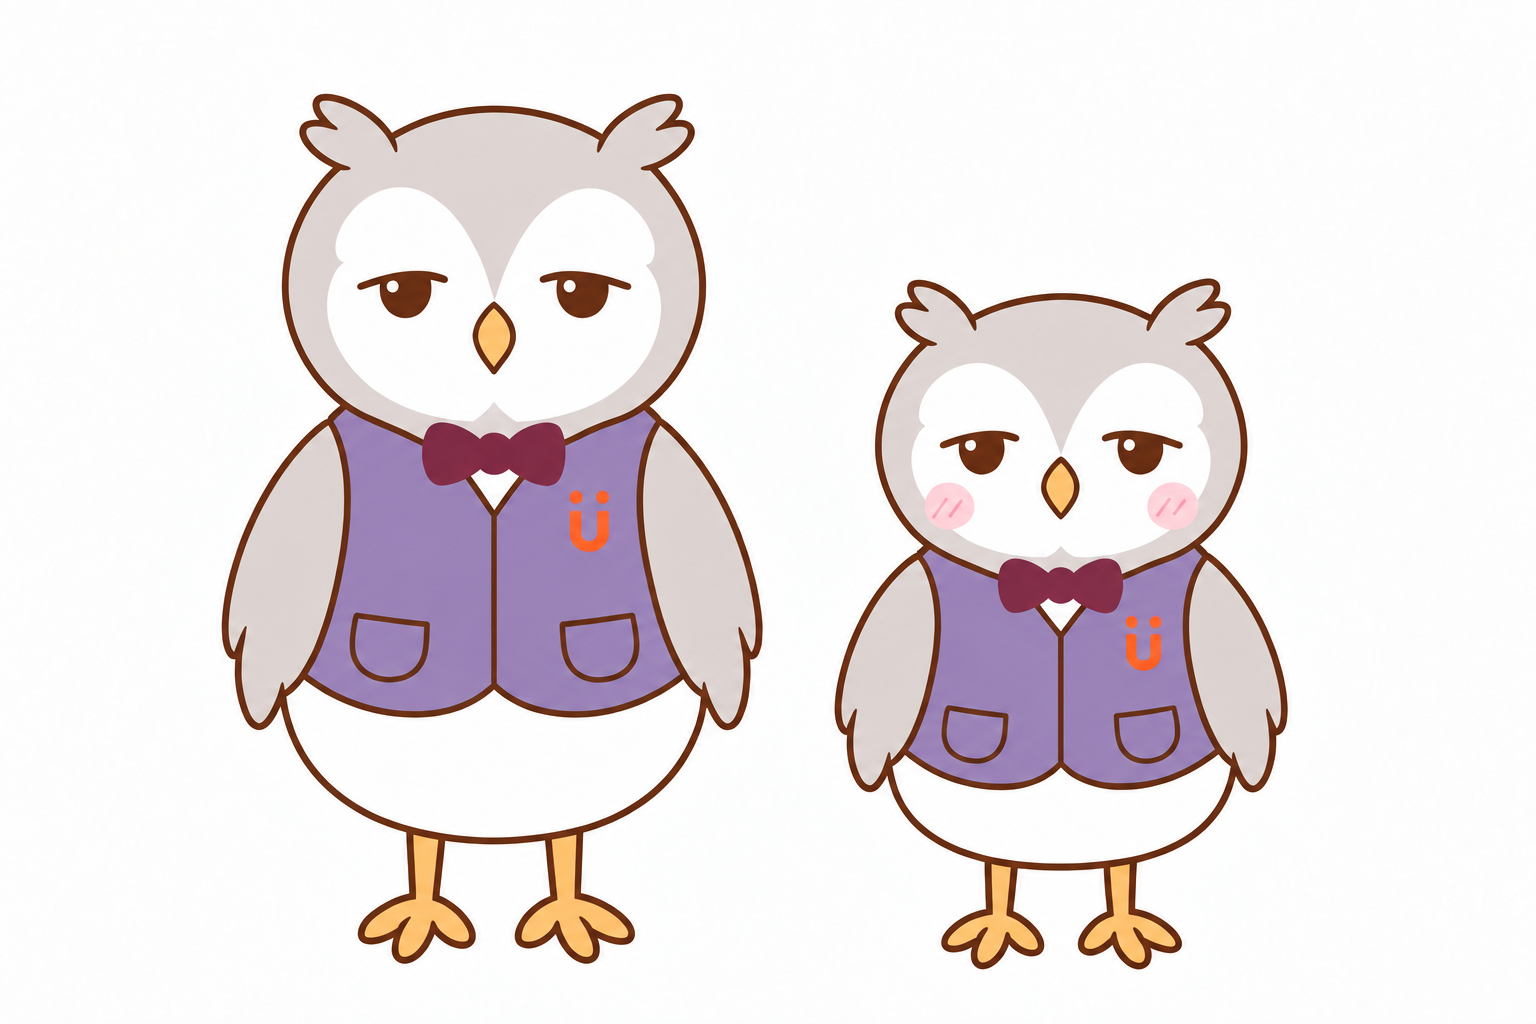
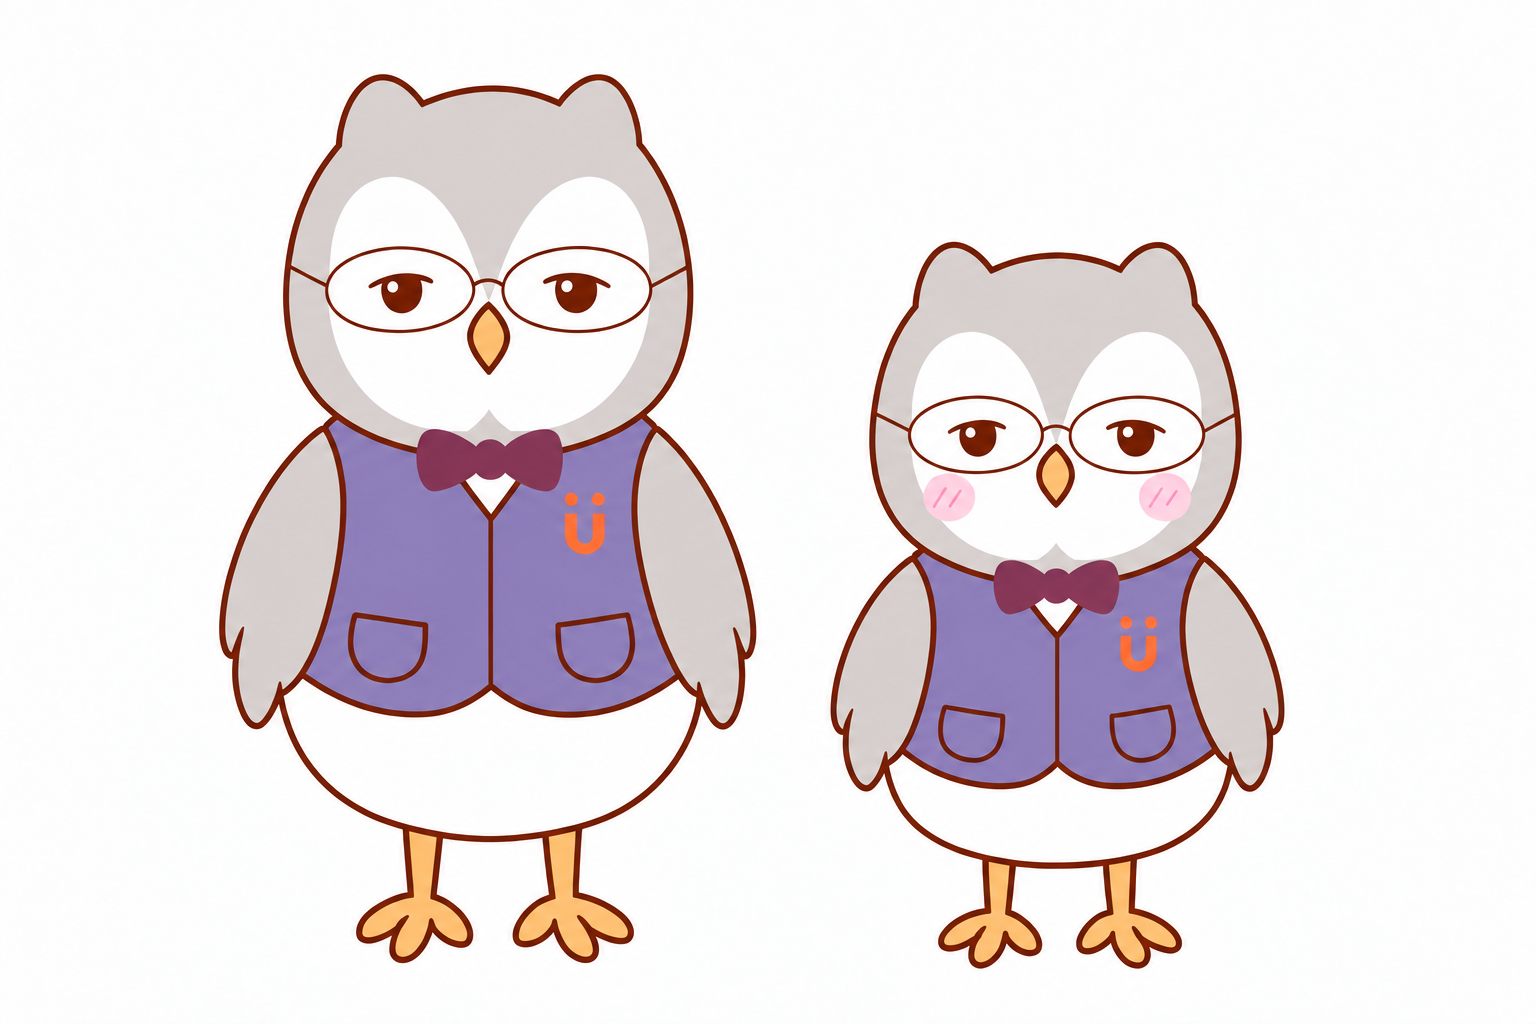
Adopt LUMI oval-glasses parent-child reference

diff --git a/planning/style-studies/character-reference/index.html b/planning/style-studies/character-reference/index.html
@@ -18,13 +18,13 @@
 <div id="gen-parent-child-color"><h4>親子のカラー版</h4><p>白い毛に、トップス #7D2741 と黄色いスカーフを合わせたカラー案。親子とも袖と裾の広がりを抑え、体に沿う形に調整。</p><figure><a href="assets/gen-parent-child-color.png?asset=85d66b477c" target="_blank"><img class="poseoutput" src="assets/gen-parent-child-color.png?asset=85d66b477c" alt="Genの親子のカラー版。左が親、右が子ども" loading="lazy"></a><figcaption>左：Gen ／ 右：子ども版。配色検討用の別画像。</figcaption></figure></div>
 </article><article class="posestudy" id="poses-gen"><h3>代表ポーズ</h3><p>白い身体・服／輪郭・表情線 #A77C65／目・鼻 #6B5143／首飾り #D7C862／淡い黄色のボール／淡いピンクの耳内側／胸の記号 #FF511B</p><figure><a href="assets/gen-representative-poses.png?asset=bdd81dd9eb" target="_blank"><img class="poseoutput" src="assets/gen-representative-poses.png?asset=bdd81dd9eb" alt="Genの代表ポーズ3種・三面図を参照した掲載見本"></a><figcaption>01 ボールを返す ／ 02 後ろから走る ／ 03 休む</figcaption></figure></article><article class="categoryblock expressionstudy" id="gen-expression"><header><h3>表情 <span>4種</span></h3></header><figure><a href="assets/gen-expressions.png?asset=a325ff78c4" target="_blank"><img class="expressionoutput" src="assets/gen-expressions.png?asset=a325ff78c4" alt="Genの表情：通常、楽しむ、安心する、様子をうかがう"></a></figure><div class="expressionlabels"><div><b>01 通常</b><span>三面図の正面を基準</span></div><div><b>02 楽しむ</b><span>ボール交換の例から</span></div><div><b>03 安心する</b><span>寄りかかる休息の例から</span></div><div><b>04 様子をうかがう</b><span>相手のペースを確認する</span></div></div></article><p><button type="button" data-props-owner="gen">Genの道具10点・小物を見る</button></p><p><button type="button" data-scene-owner="gen">Genのシーン設計を見る</button></p></section><section class="character" id="luke" hidden=""><header class="sheethead"><div><span class="eyebrow">CHARACTER REFERENCE</span><h2>Luke <small>りす先生</small></h2><p>道具と環境を変え、できる形を増やす探偵兼発明家</p></div></header><div class="board"><div><figure><svg viewBox="0 870 1024 310" role="img" aria-label="Lukeの基準三面図"><image href="assets/turnaround-brand-mark.svg?asset=b4380edcb9a4" width="1024" height="1536"></image></svg><p class="note">Uマークは全員共通で #FF511B、不透明の単色・輪郭線なし。正面は画面から見て右胸の上（本人の左胸）、背面は服の背中中央。側面は該当面が見える場合だけ表示し、見えないマークを袖・腹・襟へ移さない。公式U＋2点の形と縦横比を維持する。</p><figcaption>基準の三面図：正面・側面・背面（造形の原図）</figcaption></figure><aside class="animallines"><b>共通の線基準 · #A77C65</b><div class="lineswatches"><span><svg viewBox="0 0 64 16" role="img" aria-label="外輪郭 4px"><path d="M4 8 H60" stroke="#A77C65" stroke-width="4" stroke-linecap="round"></path></svg>外輪郭 4px</span><span><svg viewBox="0 0 64 16" role="img" aria-label="内部 3px"><path d="M4 8 H60" stroke="#A77C65" stroke-width="3" stroke-linecap="round"></path></svg>内部 3px</span><span><svg viewBox="0 0 64 16" role="img" aria-label="細部 2.5px"><path d="M4 8 H60" stroke="#A77C65" stroke-width="2.5" stroke-linecap="round"></path></svg>細部 2.5px</span><span><svg viewBox="0 0 64 16" role="img" aria-label="目・鼻・眼鏡 #6B5143"><path d="M4 8 H60" stroke="#6B5143" stroke-width="4" stroke-linecap="round"></path></svg>目・鼻・眼鏡 #6B5143</span></div><details><summary>三面図で決め、ポーズ・表情で確認</summary><p>1536×1024の同一場面で、全高Mimo 340／Luke 440／Gen 488pxを配置するときの共通線幅。拡大・縮小は線も同倍率。座った高さや頭部拡大図に合わせて別の線幅を決めない。</p><p>眼鏡の線幅は外輪郭と同じ、色は #6B5143。服・耳内側・尾の巻き線は内部線。眉・口・前歯・くちばしの区切りは細部線。丸い線端・角、不透明度100%。目・鼻の塗りは #6B5143。眉・口・くちばしは #A77C65。</p><p class="note">三面図は造形、線見本は制作仕様の基準です。ポーズ・表情・小物と三面図の表示見本を更新済み。厳密な色・線幅・造形一致は未認証。画像から旧線色を採取しないでください。</p></details></aside></div><div class="spec"><h3>変えない核 <span>W / E</span></h3><p class="core">観察 → まず試す → 失敗から選び直す</p><dl><dt>強み</dt><dd>失敗を怖がらず、別の方法を発明する</dd><dt>強みの裏返し</dt><dd>試したがり。道具を出しすぎるが、不要なものをしまってやり直せる。</dd><dt>造形の手がかり</dt><dd>Genより太い胴体／胸・腹・腰・脚の量感／細い眉／大きな尻尾</dd><dt>動き</dt><dd>片手と顔が先に動き、発見や失敗が尻尾に出る。</dd><dt>避ける姿</dt><dd>道具を渡すだけ、万能発明家、失敗を笑われる役。</dd></dl></div></div><article class="categoryblock" id="luke-child"><header><span class="eyebrow">CHARACTER STUDY</span><h3>子ども版Luke〈制作案〉</h3></header><p>丸眼鏡と巻いたしっぽ、ベストと黄色いスカーフを引き継ぎ、大きさは親の約75％を目安に。耳先の毛束を少し短くし、ほっぺは淡いピンクと短い斜め線、目には小さな白いハイライトを加えています。親子とも滑らかな輪郭線で揃えた案です。</p><figure><a href="assets/luke-child-study.png" target="_blank"><img class="poseoutput" src="assets/luke-child-study.png" alt="親のLukeと小さな子ども版Luke。丸眼鏡と巻いたしっぽ、ピンクの頬、目の白いハイライト" loading="lazy"></a><figcaption>左：Luke ／ 右：子ども版。白背景の造形比較案。</figcaption></figure>
 <div id="luke-parent-child-color"><h4>親子のカラー版</h4><p>体：#FF511B ／ ベスト：#DCD5D2。頭は額から目の周りまでオレンジを広げ、口元とあごに白を残したカラー案。お腹・手足・しっぽの内側は広い白を維持。</p><figure><a href="assets/luke-parent-child-color.png?asset=a6cd9bf4da" target="_blank"><img class="poseoutput" src="assets/luke-parent-child-color.png?asset=a6cd9bf4da" alt="Lukeの親子のカラー版。左が親、右が子ども" loading="lazy"></a><figcaption>左：Luke ／ 右：子ども版。配色検討用の別画像。</figcaption></figure></div>
-</article><article class="posestudy" id="poses-luke"><h3>代表ポーズ</h3><p>白い毛・ベスト／灰茶の線／濃茶の眼鏡と顔／ブランドイエロー #D7C862 のスカーフ／橙の胸の記号</p><figure><a href="assets/luke-representative-poses.png?asset=27b1c039a1" target="_blank"><img class="poseoutput" src="assets/luke-representative-poses.png?asset=27b1c039a1" alt="Lukeの代表ポーズ3種・三面図を参照した掲載見本"></a><figcaption>01 観察する ／ 02 座って見守る ／ 03 片手を差し出す</figcaption></figure></article><article class="categoryblock expressionstudy" id="luke-expression"><header><h3>表情 <span>4種</span></h3></header><figure><a href="assets/luke-expressions.png?asset=9cfbcda638" target="_blank"><img class="expressionoutput" src="assets/luke-expressions.png?asset=9cfbcda638" alt="Lukeの表情：通常、観察する、穏やかな喜び、考え直す"></a></figure><div class="expressionlabels"><div><b>01 通常</b><span>三面図の正面を基準</span></div><div><b>02 観察する</b><span>小さな発見の例から</span></div><div><b>03 穏やかな喜び</b><span>目を閉じて喜ぶ</span></div><div><b>04 考え直す</b><span>眉の左右差で考える</span></div></div></article><p><button type="button" data-props-owner="luke">Lukeの道具10点・小物を見る</button></p><p><button type="button" data-scene-owner="luke">Lukeのシーン設計を見る</button></p></section><section class="character" id="lumi" hidden=""><header class="sheethead"><div><span class="eyebrow">CHARACTER REFERENCE</span><h2>LUMI <small>ふくろう先生</small></h2><p>前後関係を整理し、複数の仮説を比べる分析者</p></div></header><figure id="lumi-measurements"><a href="assets/lumi-turnaround-measured.svg?v=20261014-drooping-eyelids" target="_blank"><img class="poseoutput" src="assets/lumi-turnaround-measured.svg?v=20261014-drooping-eyelids" alt="LUMIの寸法入り三面図。全高1000を基準に、頭幅492、頭高409、胴高481、翼高381、脚と足153。元の正面図と下段の親子との比率比較表付き"></a><figcaption>正面・側面・背面の実測寸法と比率比較。クリックで拡大。単位は全高1000の相対値、手動計測の概算です。</figcaption></figure><div class="board"><div><h3>寸法の基準と修正結果</h3><p><b>下段カラー版の親を基準に、三面図の比率を修正しました。</b>全高1000に対して、基準の頭幅488・頭高409に、修正後は頭幅492・頭高409。頭幅の差は約0.8％です。</p><p>大きすぎた頭を小さくし、胴体と脚の長さを調整しました。白い身体・服、両端が少し下がった優しく眠そうな目、蝶ネクタイと胸マークは維持しています。下段の親子画像は変更していません。</p><p>目の表現を更新し、三面図の頭の外接範囲は前版との差1px以内であることを確認しています。寸法図の値は比率修正時の概算値です。生成画像のため小さな差は残ります。側面の奥行きは正面から決められないため、側面の制作案として扱います。</p><p><a href="assets/lumi-parent-child-color.png">今回の基準：下段カラー版の親</a> · <a href="assets/lumi-measurements.json">寸法データ・計測定義</a></p><p class="note">Mimo・Luke・Genと共通の白い身体・服と茶色の線で表示。輪郭は #A77C65、目は #6B5143、蝶ネクタイは #7D2741、胸と背中のマークは #FF511B を指定しています。</p></div><div class="spec"><h3>変えない核 <span>W / E</span></h3><p class="core">心配する → 問いに変える → 前後を一緒に確かめる</p><dl><dt>強み</dt><dd>危険と見落としを考え、整理する</dd><dt>強みの裏返し</dt><dd>理屈っぽい。考えすぎて結論まで時間がかかる。</dd><dt>造形の手がかり</dt><dd>小さめの丸い頭と独立した胴体／控えめな耳羽／両端を少し下げたまぶたと小さなハイライトの優しい半目／白い顔盤／短い翼と鳥脚</dd><dt>動き</dt><dd>心配時は翼が下がり、整理できると視線と翼が開く。</dd><dt>避ける姿</dt><dd>冷たい分析役、説教、いつも結論を知る先生。</dd></dl></div></div>
+</article><article class="posestudy" id="poses-luke"><h3>代表ポーズ</h3><p>白い毛・ベスト／灰茶の線／濃茶の眼鏡と顔／ブランドイエロー #D7C862 のスカーフ／橙の胸の記号</p><figure><a href="assets/luke-representative-poses.png?asset=27b1c039a1" target="_blank"><img class="poseoutput" src="assets/luke-representative-poses.png?asset=27b1c039a1" alt="Lukeの代表ポーズ3種・三面図を参照した掲載見本"></a><figcaption>01 観察する ／ 02 座って見守る ／ 03 片手を差し出す</figcaption></figure></article><article class="categoryblock expressionstudy" id="luke-expression"><header><h3>表情 <span>4種</span></h3></header><figure><a href="assets/luke-expressions.png?asset=9cfbcda638" target="_blank"><img class="expressionoutput" src="assets/luke-expressions.png?asset=9cfbcda638" alt="Lukeの表情：通常、観察する、穏やかな喜び、考え直す"></a></figure><div class="expressionlabels"><div><b>01 通常</b><span>三面図の正面を基準</span></div><div><b>02 観察する</b><span>小さな発見の例から</span></div><div><b>03 穏やかな喜び</b><span>目を閉じて喜ぶ</span></div><div><b>04 考え直す</b><span>眉の左右差で考える</span></div></div></article><p><button type="button" data-props-owner="luke">Lukeの道具10点・小物を見る</button></p><p><button type="button" data-scene-owner="luke">Lukeのシーン設計を見る</button></p></section><section class="character" id="lumi" hidden=""><header class="sheethead"><div><span class="eyebrow">CHARACTER REFERENCE</span><h2>LUMI <small>ふくろう先生</small></h2><p>前後関係を整理し、複数の仮説を比べる分析者</p></div></header><figure id="lumi-measurements"><a href="assets/lumi-turnaround-measured.svg?v=20261014-drooping-eyelids" target="_blank"><img class="poseoutput" src="assets/lumi-turnaround-measured.svg?v=20261014-drooping-eyelids" alt="LUMIの寸法入り三面図。全高1000を基準に、頭幅492、頭高409、胴高481、翼高381、脚と足153。元の正面図と下段の親子との比率比較表付き"></a><figcaption>正面・側面・背面の実測寸法と比率比較。クリックで拡大。単位は全高1000の相対値、手動計測の概算です。</figcaption></figure><div class="board"><div><h3>旧版の寸法記録</h3><p><b>最新の採用基準は下段のメガネ付きカラー親子版です。</b>丸い縦長の頭、細い楕円メガネ、短いまぶた、小さな白い丸のハイライトを採用しました。上の三面図・寸法と白い親子版は旧版で、新しい頭形状への更新待ちです。</p><p><b>当時のカラー版の親を基準に、三面図の比率を修正した記録です。</b>全高1000に対して、基準の頭幅488・頭高409に、修正後は頭幅492・頭高409。頭幅の差は約0.8％です。</p><p>大きすぎた頭を小さくし、胴体と脚の長さを調整しました。白い身体・服、両端が少し下がった優しく眠そうな目、蝶ネクタイと胸マークは維持しています。この数値は最新の採用画像の寸法を示すものではありません。</p><p>目の表現を更新し、三面図の頭の外接範囲は前版との差1px以内であることを確認しています。寸法図の値は比率修正時の概算値です。生成画像のため小さな差は残ります。側面の奥行きは正面から決められないため、側面の制作案として扱います。</p><p><a href="assets/lumi-parent-child-color.png">最新の採用基準：カラー版の親</a> · <a href="assets/lumi-measurements.json">寸法データ・計測定義</a></p><p class="note">Mimo・Luke・Genと共通の白い身体・服と茶色の線で表示。輪郭は #A77C65、目は #6B5143、蝶ネクタイは #7D2741、胸と背中のマークは #FF511B を指定しています。</p></div><div class="spec"><h3>変えない核 <span>W / E</span></h3><p class="core">心配する → 問いに変える → 前後を一緒に確かめる</p><dl><dt>強み</dt><dd>危険と見落としを考え、整理する</dd><dt>強みの裏返し</dt><dd>理屈っぽい。考えすぎて結論まで時間がかかる。</dd><dt>造形の手がかり</dt><dd>丸い縦長の頭と独立した胴体／控えめな耳羽／細い横長の楕円メガネ／短いまぶたと小さな白い丸のハイライトの優しい半目／白い顔盤／短い翼と鳥脚</dd><dt>動き</dt><dd>心配時は翼が下がり、整理できると視線と翼が開く。</dd><dt>避ける姿</dt><dd>冷たい分析役、説教、いつも結論を知る先生。</dd></dl></div></div>
 <article class="categoryblock" id="lumi-child"><header><span class="eyebrow">CHARACTER STUDY</span><h3>白い身体・服の版と子ども版LUMI</h3></header>
 <p>身体・服・くちばし・足の塗りを白にし、蝶ネクタイと胸のマークに識別色を残した版。上まぶたは中央より両端を少し下げた緩いカーブにし、瞳に小さな白いハイライトを加え、優しく眠そうな表情に。顔盤は細い線で示します。</p>
 <p>子ども版は親の約75〜80％の全高を目安にした制作案です。頭を極端に大きくせず、Mimo・Luke・Genの子ども版と同じ淡いピンクのほっぺと短い斜め線、目の小さな白いハイライトを加えています。</p>
 <figure><a href="assets/lumi-child-study.png?v=20261014-drooping-eyelids" target="_blank"><img class="poseoutput" src="assets/lumi-child-study.png?v=20261014-drooping-eyelids" alt="白い身体と服のLUMI親子。左が親、右がピンクのほっぺと目のハイライトを加えた子ども版" loading="lazy"></a><figcaption>左：LUMI ／ 右：子ども版。身体と服の色を省いた正面比較。</figcaption></figure>
 <div id="lumi-parent-child-color"><h4>親子のカラー版</h4><p>羽のグレーはthemeの #DCD5D2、顔盤とお腹の白は #FFFFFF を指定。紫のベストと #7D2741 の蝶ネクタイ、#FF511B の胸マークを合わせています。</p>
-<figure><a href="assets/lumi-parent-child-color.png?v=20261014-drooping-eyelids" target="_blank"><img class="poseoutput" src="assets/lumi-parent-child-color.png?v=20261014-drooping-eyelids" alt="グレーの羽、白い顔盤とお腹、紫のベストを合わせたLUMI親子のカラー版" loading="lazy"></a><figcaption>左：LUMI ／ 右：子ども版。親子で配色と優しく眠そうな半目を揃えたカラー案。</figcaption></figure></div>
+<figure><a href="assets/lumi-parent-child-color.png?v=20261014-approved-oval-glasses" target="_blank"><img class="poseoutput" src="assets/lumi-parent-child-color.png?v=20261014-approved-oval-glasses" alt="グレーの羽、白い顔盤とお腹、紫のベストを合わせたLUMI親子のカラー版" loading="lazy"></a><figcaption>左：LUMI ／ 右：子ども版。採用版：丸い縦長の頭・細い楕円メガネ・短いまぶた・小さな白い丸のハイライト。</figcaption></figure></div>
 <p class="note">下段カラー版の親を寸法基準とし、三面図を修正しました。修正後の実測値は上の寸法図に記録しています。全員の旧三面図にあるLUMIとは造形が異なります。追加ポーズは未更新。生成画像の細かな色むらは配色仕様に含みません。</p>
 </article><p><button type="button" data-props-owner="lumi">LUMIの道具10点・小物を見る</button></p><p><button type="button" data-scene-owner="lumi">LUMIのシーン設計を見る</button></p></section><section class="character" id="props" hidden=""><header class="sheethead"><div><span class="eyebrow">PROP LIBRARY</span><h2>小物一覧</h2><p>専門サイトを参考に、Mimo・Luke・Gen・LUMIの道具をキャラクター別選定。基本小物・背景の見本も併せて掲載しています。</p></div></header><div class="toolintro"><b>4人の道具箱</b><p>写真を見ながら左右にスクロール。写真はクリックで拡大、説明は「用途・出典を見る」から。</p><p><a href="prop-stage-detail-mapping.html">小物 × stage detailのマッピング提案（21種類）を見る →</a></p><div class="tooljump"><a href="#props-mimo">Mimo · 10点</a><a href="#props-luke">Luke · イラスト14種類＋写真8点</a><a href="#props-gen-movement">Gen · イラスト10種類</a><a href="#props-gen">Gen · 写真10点</a><a href="#props-lumi">LUMI · 10点</a></div><details class="toolpolicy"><summary>出典と選定方針</summary><p>確認日：2026年9月19日。出典は用具の形と用途の参考、使う場面・描き方はHugMapでの提案です。「よく使う」はキャラクター設定上の選定案で、専門職の使用頻度ランキングではありません。</p><p>各項目のリンクから製品写真・仕様や専門資料を確認できます。口腔・食事用具は専門家と使う場面に限定し、発話を促す効果を一括して示しません。小部品や運動用具は対象年齢・支え方に合う場面を選びます。</p><p class="note"><a href="specialist-props.json">出典付き選定データ</a></p></details></div><p class="note">道具は背景の淡い色と柔らかな質感へ統一。身につける小物の位置・形は三面図を参照。背景の道具は採用画像の一部を拡大した見本で、周囲を含みます。行動に必要なものだけ選びます。</p>
 <article class="propgroup" id="props-mimo"><h3>Mimo</h3><section id="props-sound"><h4>声や音に気づく・道具イラスト</h4><div class="fine-motor-grid"><figure class="propitem"><a href="assets/fine-motor-props/marbles.png?asset=abad68c2b0" target="_blank" rel="noopener"><img src="assets/fine-motor-props/marbles.png?asset=abad68c2b0" alt="ビー玉の道具イラスト" width="400" height="400" loading="lazy" decoding="async"></a><figcaption><h4>ビー玉</h4><p>容器の中で転がる音を聞く</p><p><a href="assets/fine-motor-props/marbles.png" download>透過PNGを保存</a></p></figcaption></figure></div></section>
